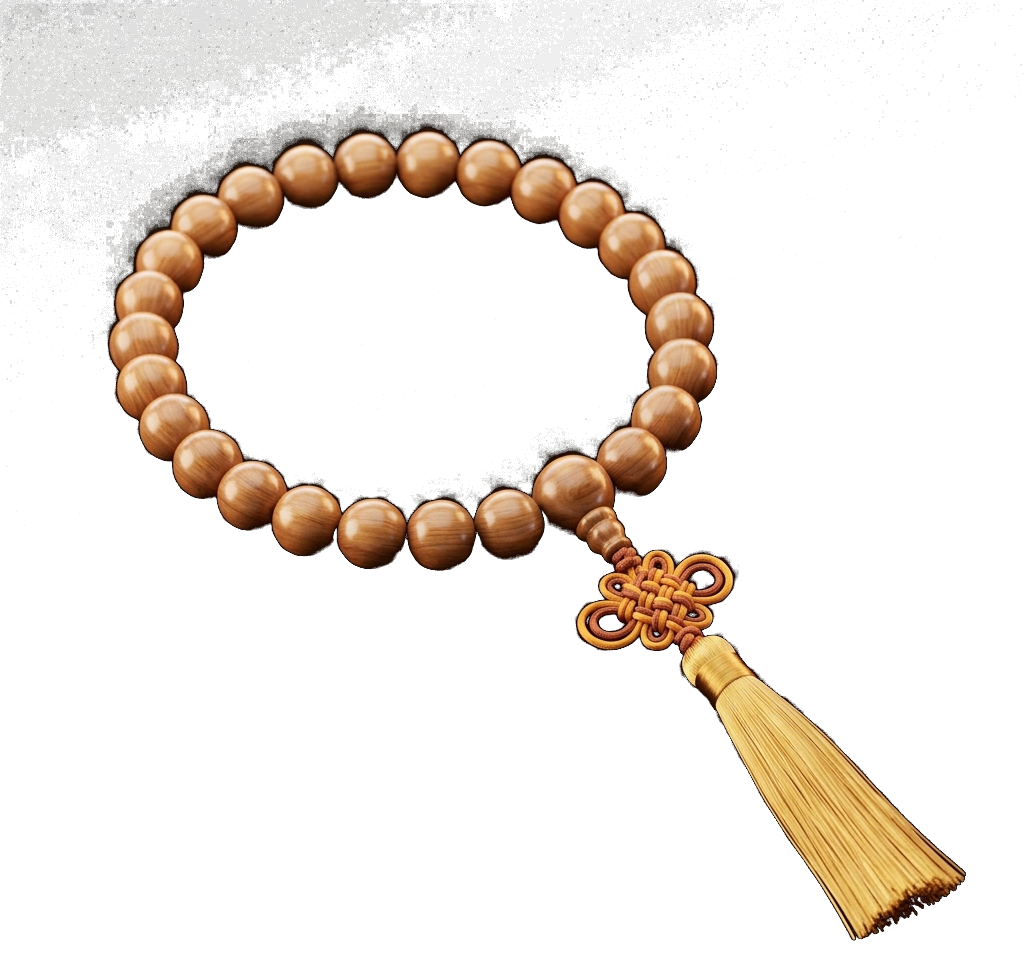
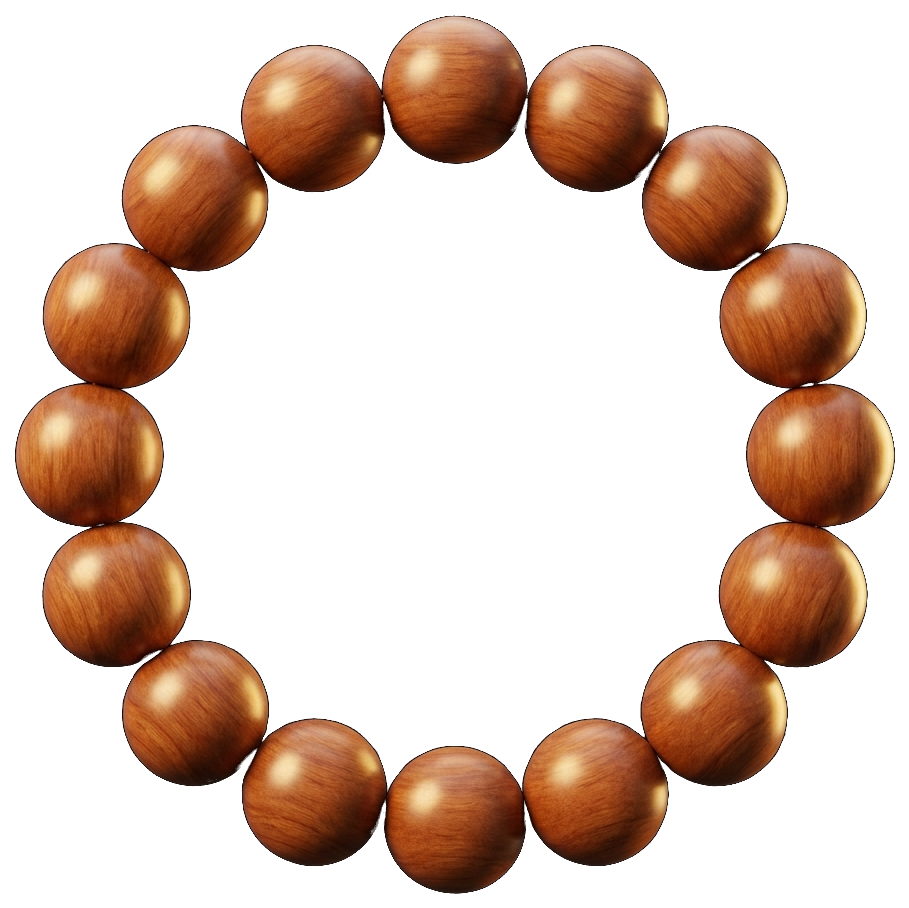
feat(sanctuary): replace yeomju with clean circular loop of large chunky wooden beads without handle/tassel

diff --git a/src/components/Meditate/SowonsaSanctuaryModal.jsx b/src/components/Meditate/SowonsaSanctuaryModal.jsx
@@ -477,7 +477,7 @@ export default function SowonsaSanctuaryModal({ isOpen, onClose, onOpenLantern }
                 <img 
                   src="/images/avatar_yeomju_3d.png" 
                   alt="3D 108 침향목 염주" 
-                  className="w-11 sm:w-13 object-contain filter drop-shadow-[0_4px_12px_rgba(0,0,0,0.9)]"
+                  className="w-12 sm:w-14 object-contain filter drop-shadow-[0_4px_12px_rgba(0,0,0,0.9)]"
                 />
                 {/* 염주 굴릴 때 황금빛 염송 파동 */}
                 {actionState === 'yeomju' && (
